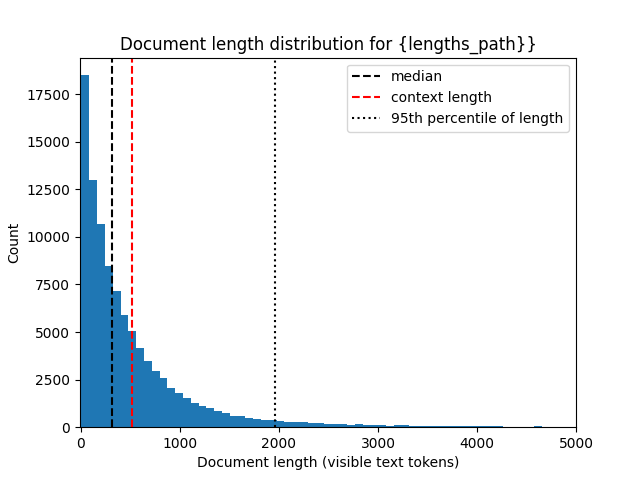
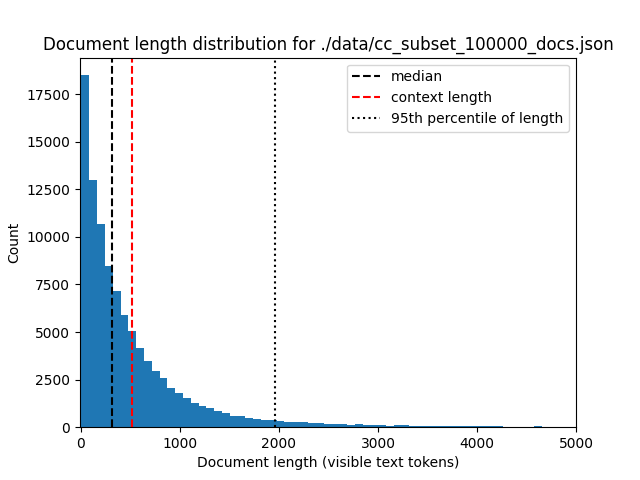
fix: plot title

Changed region(s): [[0.0625, 0.0625, 0.9688, 0.125]]

diff --git a/data/compute_cc_dump_stats.py b/data/compute_cc_dump_stats.py
@@ -56,7 +56,7 @@ def plot_histogram(lengths_path: str, bins: int, save_path: str):
     plt.axvline(np.percentile(lengths, 95), color="k", linestyle=":", label="95th percentile of length")
     plt.xlabel("Document length (visible text tokens)")
     plt.ylabel("Count")
-    plt.title("Document length distribution for {lengths_path}}")
+    plt.title(f"Document length distribution for {lengths_path}")
     plt.xlim(-10, 5000)
     plt.legend()
     plt.savefig(save_path)
